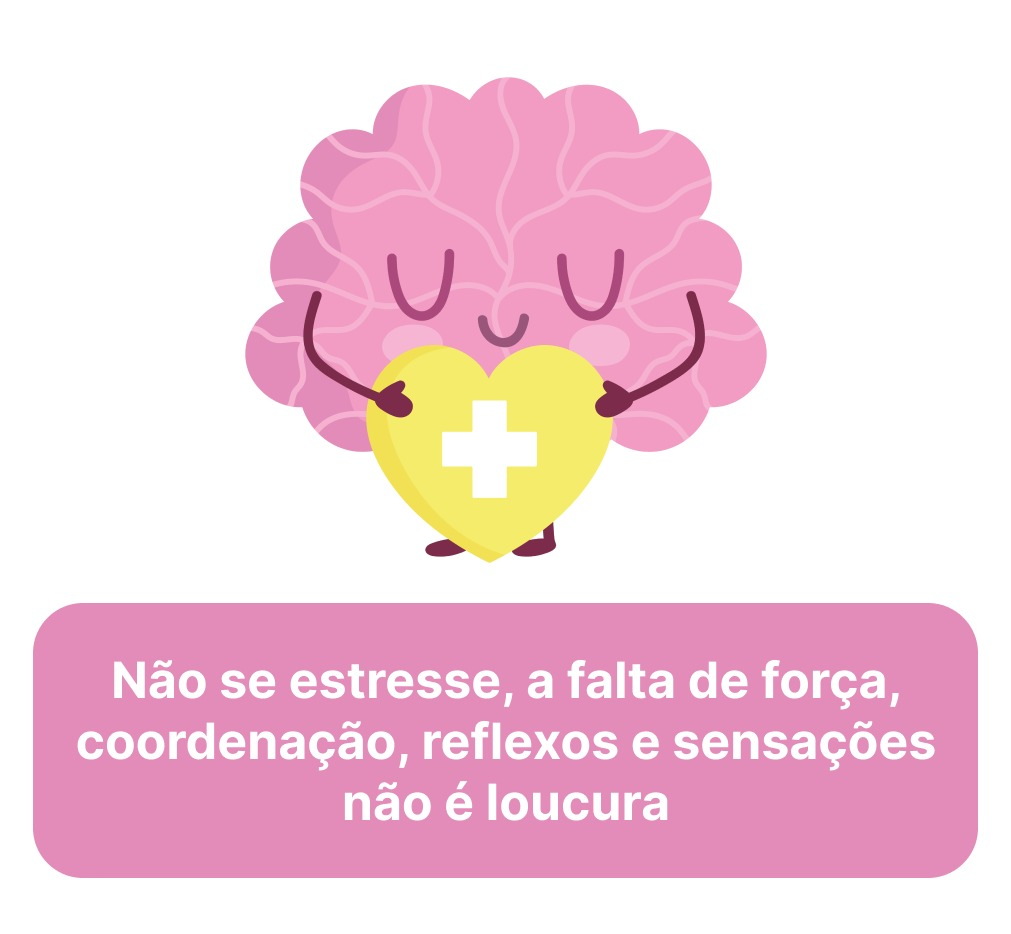
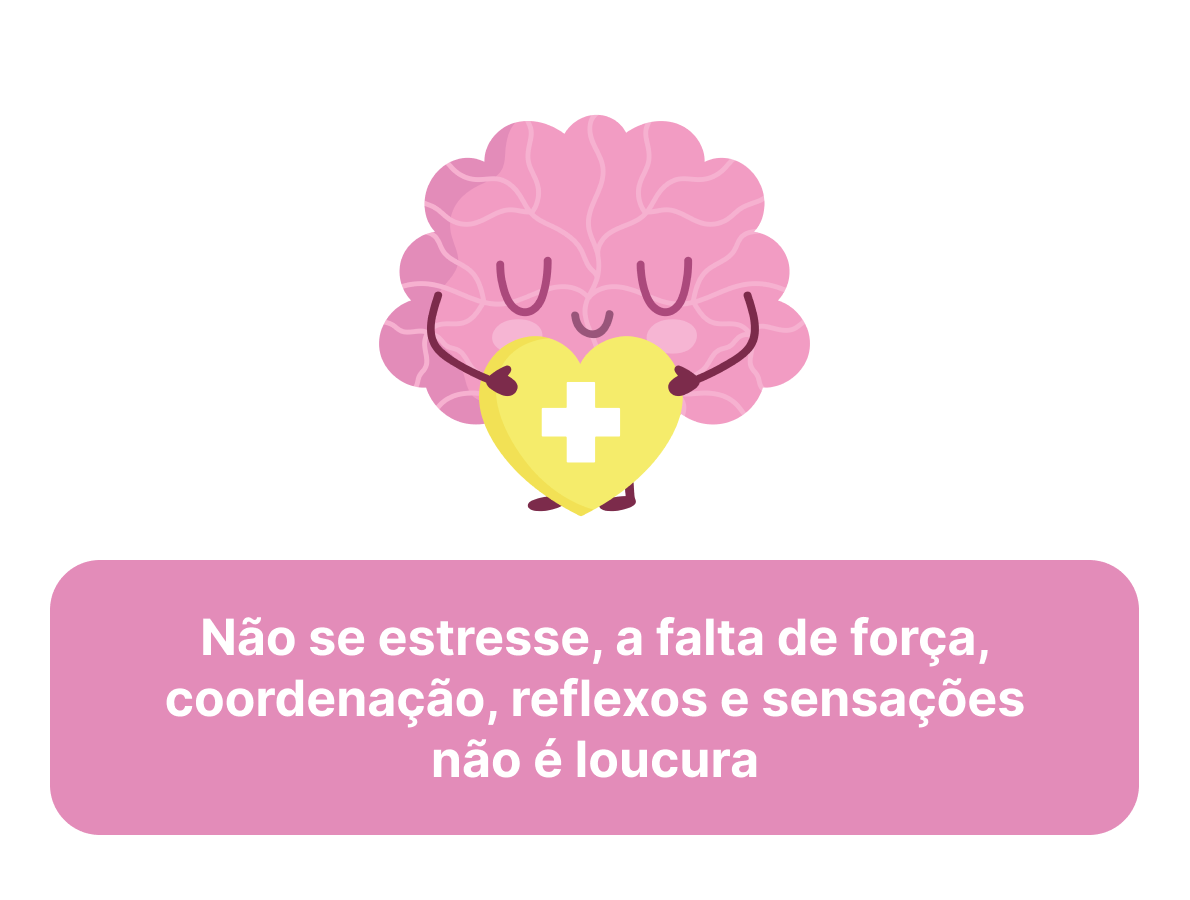
carrossel pagina de login

Changed region(s): [[0.0307, 0.0622, 0.9812, 0.9644]]

diff --git a/view/login.php b/view/login.php
@@ -20,17 +20,16 @@
         }
 
         .meu-carrossel {
-            margin: 20px;
+        
             width: 100%;
             border-radius: 20px;
             overflow: hidden;
-            
-            position: relative;
+            height: 700px;
             background-color: aquamarine;
 
         }
 
-        
+    
     </style>
 </head>
 
@@ -39,10 +38,12 @@
         <div class="container-fluid">
             <div class="row">
 
-                <div class="col-sm-12 col-md-8 d-flex justify-content-center">
+                <div class="col-sm-12 col-md-8 d-flex justify-content-center align-items-center">
+
                     <div id="meuCarrossel" class="carousel slide meu-carrossel" data-ride="carousel">
                         <?php include 'components/carrossel.php' ?>
                     </div>
+
                 </div>
 
                 <div class="col-sm-12 col-md-4 d-flex justify-content-center">

diff --git a/view/components/carrossel.php b/view/components/carrossel.php
@@ -5,10 +5,10 @@
 </ol>
 <div class="carousel-inner">
     <div class="carousel-item active">
-        <img class="d-block w-100" src="view/images/saude3.jpeg" alt="Primeiro Slide">
+        <img class="d-block w-100 h-100" src="view/images/saude3.png" alt="Primeiro Slide">
     </div>
     <div class="carousel-item">
-        <img class="d-block w-100" src="view/images/saude2.jpeg" alt="Segundo Slide">
+        <img class="d-block w-100 h-100" src="view/images/saude2.jpeg" alt="Segundo Slide">
     </div>
     <div class="carousel-item">
         <img class="d-block w-100" src="view/images/saude1.jpeg" alt="Terceiro Slide">
